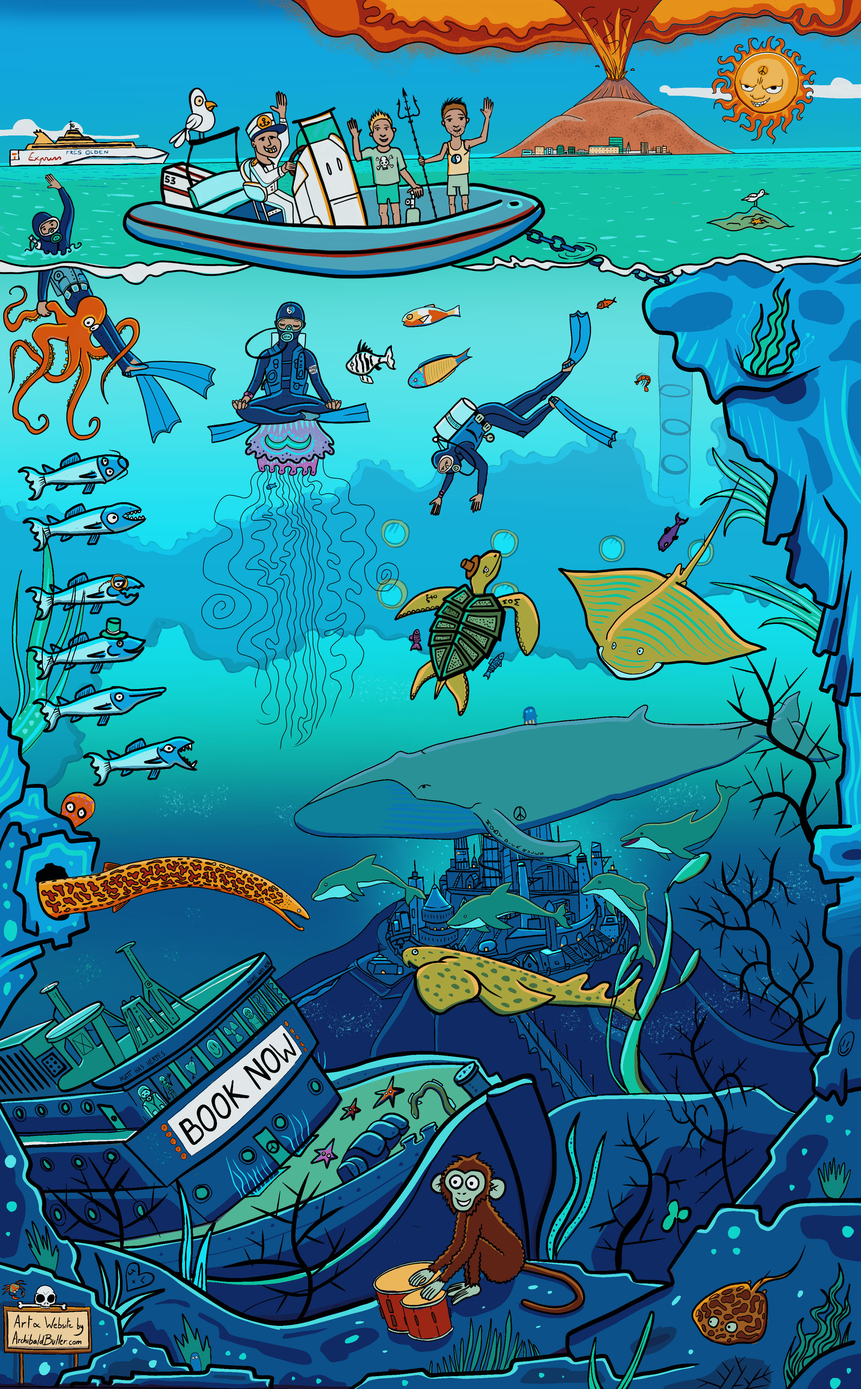
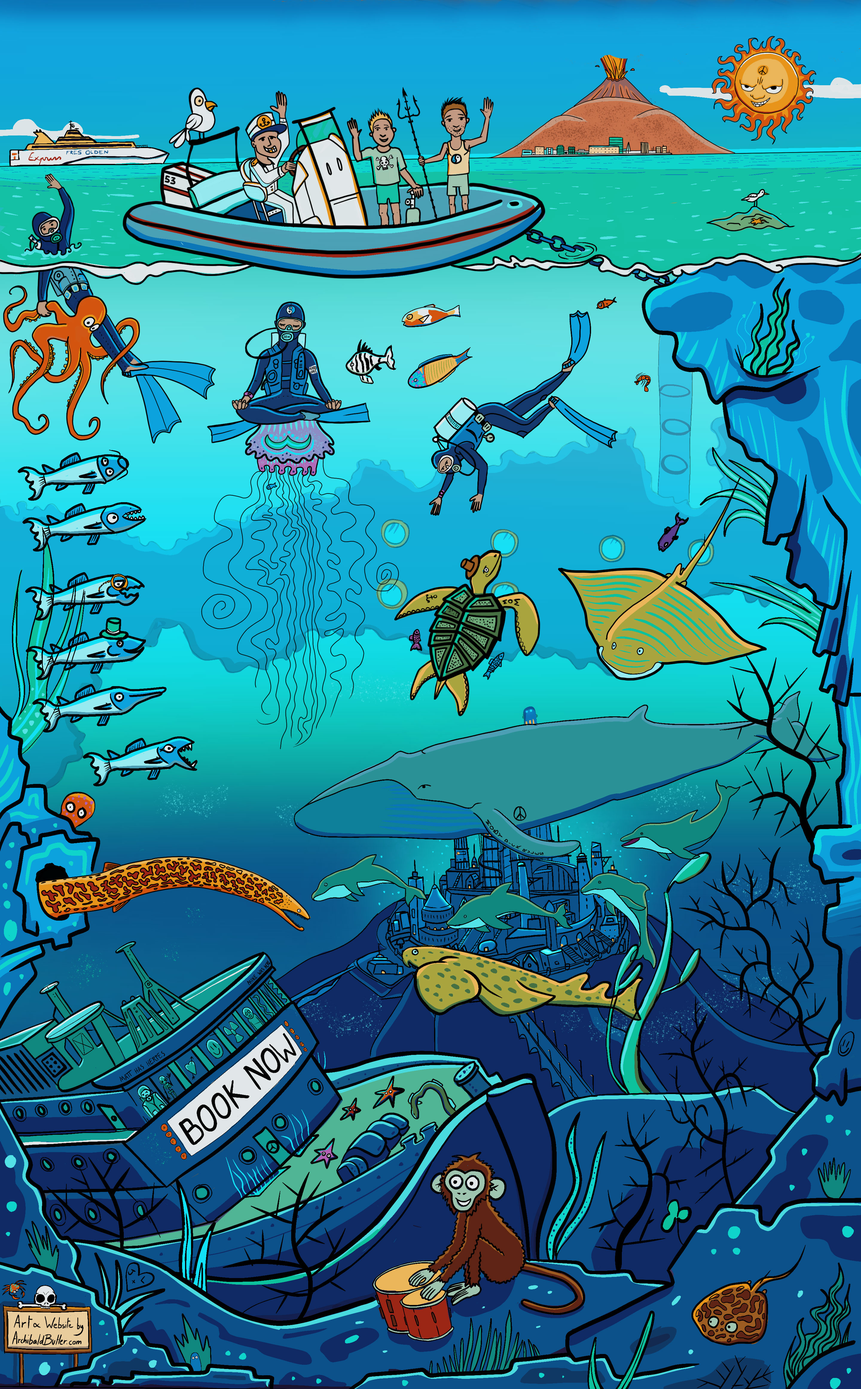
ts install

Changed region(s): [[0.3125, 0.0, 1.0, 0.0624]]

diff --git a/src/assets/js/Home.scss b/src/assets/js/Home.scss
@@ -1,6 +1,6 @@
 .home {
-    background-color: red;
     background-image: url('./../img/bg.jpg');
+    position: relative;
     display: block;
     overflow: hidden;
     background-size: 100% auto;
@@ -11,4 +11,41 @@
     padding-top: 161%;
     max-width: 1920px;
     max-height: 3200px;
+    .lava_cloud {
+        background: url('./../img/artwork.png') 0 0;
+        background-size: 100% auto;
+        background-repeat: no-repeat;
+        position: absolute;
+        left: 30%;
+        top: 0;
+        height: 5%;
+        width: 90%;
+        padding-top: 0%;
+        animation: MoveUpDown 4s linear infinite;
+    }
+    .object {
+        position: absolute;
+        left: 0;
+        bottom: 0;
+    }
+    @keyframes MoveUpDown {
+        0%,
+        100% {
+            top: -0.5%;
+        }
+        50% {
+            top: 0%;
+        }
+    }
+    .lava {
+        background: url('./../img/artwork.png') -862px 460px;
+        // background-size: 100% auto;
+        //background-repeat: no-repeat;
+        position: absolute;
+        left: 64%;
+        top: 0;
+        height: 5%;
+        width: 14%;
+        padding-top: 0%;
+    }
 }

diff --git a/src/App.tsx b/src/App.tsx
@@ -9,7 +9,6 @@ import Contact from "./assets/js/Contact"
 function App() {
   return (
     <div className="App">
-      <Nav />
       <main>
         <Routes>
           <Route path="/" element={<Home />} />
@@ -19,6 +18,8 @@ function App() {
           <Route path="contact" element={<Contact />} />
         </Routes>
       </main>
+      <Nav />
+
     </div>
   );
 }

diff --git a/src/assets/js/Nav.scss b/src/assets/js/Nav.scss
@@ -119,7 +119,7 @@ header {
                 left: 0px;
             }
             img.logo {
-                filter: invert(100%);
+                // filter: invert(100%);
                 top: 2px;
                 @media (min-width: 660px) {
                     top: -6px;

diff --git a/src/assets/js/Home.tsx b/src/assets/js/Home.tsx
@@ -3,7 +3,8 @@ import './Home.scss'
 function Home() {
  return (
   <div className='home'>
-   <h1>This is the home page</h1>
+   <div className='lava_cloud'></div>
+   <div className='lava'></div>
   </div>
  );
 }

diff --git a/src/assets/js/Packages.tsx b/src/assets/js/Packages.tsx
@@ -3,6 +3,13 @@ import React from 'react'
 function Packages() {
  return (
   <div>
+   <br />
+   <br />
+   <br />
+   <br />
+   <br />
+   <br />
+   <br />
    <h1>This is the Packages page</h1>
   </div>
  )

diff --git a/src/assets/js/Contact.tsx b/src/assets/js/Contact.tsx
@@ -3,6 +3,13 @@ import React from 'react'
 function Contact() {
  return (
   <div>
+   <br />
+   <br />
+   <br />
+   <br />
+   <br />
+   <br />
+   <br />
    <h1>This is the contact page</h1>
   </div>
  )

diff --git a/src/assets/js/Gallery.tsx b/src/assets/js/Gallery.tsx
@@ -3,6 +3,13 @@ import React from 'react'
 function Gallery() {
  return (
   <div>
+   <br />
+   <br />
+   <br />
+   <br />
+   <br />
+   <br />
+   <br />
    <h1>This is the Gallery page</h1>
   </div>
  )

diff --git a/src/assets/js/About.tsx b/src/assets/js/About.tsx
@@ -3,6 +3,13 @@ import React from 'react'
 function About() {
  return (
   <div>
+   <br />
+   <br />
+   <br />
+   <br />
+   <br />
+   <br />
+   <br />
    <h1>This is the about page</h1>
   </div>
  )
